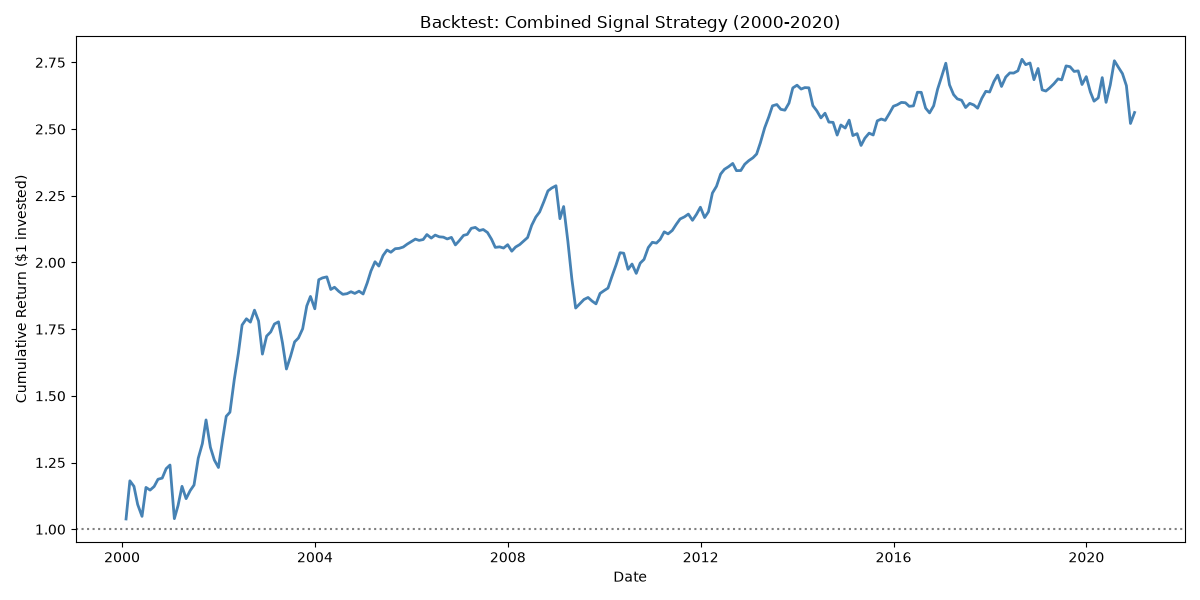
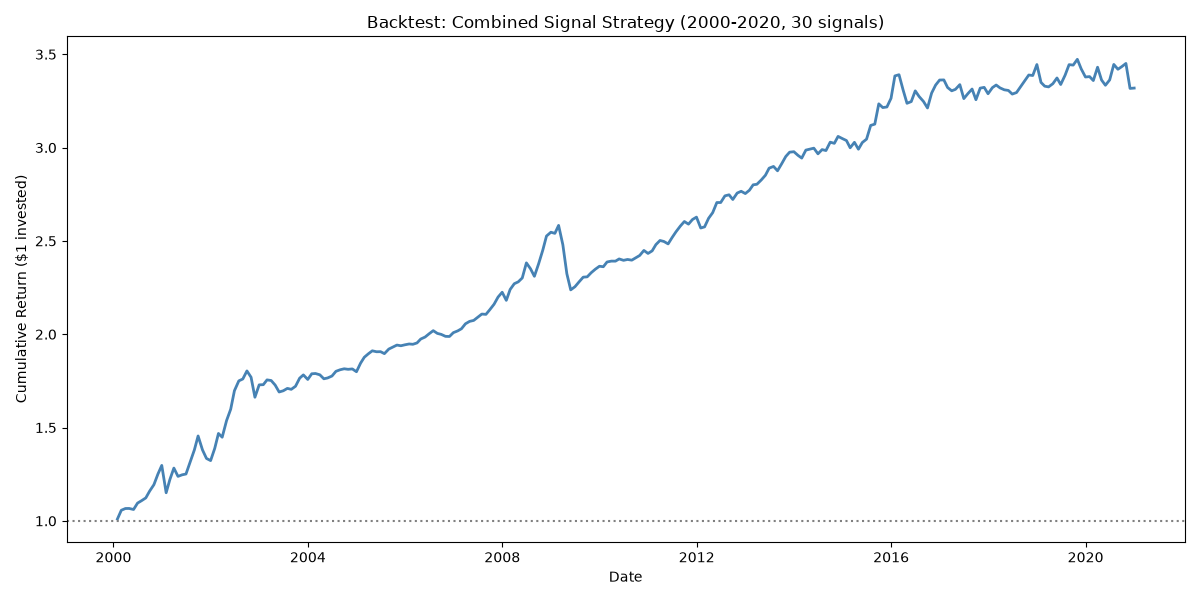
synced all 30 signals to back and alpha test

diff --git a/models/backtest.py b/models/backtest.py
@@ -7,60 +7,67 @@ import matplotlib.pyplot as plt
 
 openap = oap.OpenAP()
 
+signals = [
+    'BM', 'Mom12m', 'GP', 'AssetGrowth',
+    'TrendFactor', 'ChTax', 'EarningsStreak',
+    'MS', 'NOA', 'ResidualMomentum', 'roaq',
+    'DivSeason', 'AbnormalAccruals', 'CompositeDebtIssuance',
+    'IntMom', 'MomVol', 'OScore', 'Accruals', 'IdioVol3F',
+    'FirmAgeMom', 'dNoa', 'DelCOA', 'EntMult',
+    'ShareIss1Y', 'NetDebtFinance', 'InvGrowth',
+    'hire', 'BMdec', 'PS', 'Mom6mJunk'
+]
+
 print("Downloading portfolio returns...")
-bm = openap.dl_port('op', 'polars', ['BM'])
-mom = openap.dl_port('op', 'polars', ['Mom12m'])
-gp = openap.dl_port('op', 'polars', ['GP'])
-ag = openap.dl_port('op', 'polars', ['AssetGrowth'])
+ls_frames = []
+loaded = []
 
-# keep only the long-short portfolio (port == 'LS')
-def get_ls(df, name):
-    return (df
-        .filter(pl.col('port') == 'LS')
-        .select(['date', 'ret'])
-        .rename({'ret': name}))
+for signal in signals:
+    try:
+        port = openap.dl_port('op', 'polars', [signal])
+        ls = (port
+              .filter(pl.col('port') == 'LS')
+              .select(['date', 'ret'])
+              .rename({'ret': signal}))
+        ls_frames.append(ls)
+        loaded.append(signal)
+        print(f"  {signal}: OK")
+    except Exception as e:
+        print(f"  {signal}: skipped ({e})")
 
-bm_ls = get_ls(bm, 'BM')
-mom_ls = get_ls(mom, 'Mom12m')
-gp_ls = get_ls(gp, 'GP')
-ag_ls = get_ls(ag, 'AssetGrowth')
+print(f"\nLoaded {len(loaded)}/{len(signals)} signals")
 
-# combine all signals
-combined = bm_ls.join(mom_ls, on='date').join(gp_ls, on='date').join(ag_ls, on='date')
+combined = ls_frames[0]
+for frame in ls_frames[1:]:
+    combined = combined.join(frame, on='date', how='inner')
 
-# filter to 2000-2020
 combined = combined.filter(
     (pl.col('date') >= pl.date(2000, 1, 1)) &
     (pl.col('date') <= pl.date(2020, 12, 31))
 )
 
-# equal weight the signals into one combined strategy
 combined = combined.with_columns(
-    ((pl.col('BM') + pl.col('Mom12m') + pl.col('GP') + pl.col('AssetGrowth')) / 4).alias('combined_ret')
+    (pl.sum_horizontal([pl.col(s) for s in loaded]) / len(loaded)).alias('combined_ret')
 )
 
-# convert to pandas for math
 df = combined.to_pandas()
 df = df.sort_values('date')
 
-# cumulative returns
 df['cumulative'] = (1 + df['combined_ret'] / 100).cumprod()
 
-# stats
 total_return = df['cumulative'].iloc[-1] - 1
 avg_monthly = df['combined_ret'].mean()
 sharpe = (df['combined_ret'].mean() / df['combined_ret'].std()) * np.sqrt(12)
 
-print(f"\n=== BACKTEST RESULTS (2000-2020) ===")
+print(f"\n=== BACKTEST RESULTS (2000-2020, {len(loaded)} signals) ===")
 print(f"Total Return: {total_return:.1%}")
 print(f"Avg Monthly Return: {avg_monthly:.2f}%")
 print(f"Sharpe Ratio: {sharpe:.2f}")
 
-# plot
 plt.figure(figsize=(12, 6))
 plt.plot(df['date'], df['cumulative'], linewidth=2, color='steelblue')
 plt.axhline(y=1, color='gray', linestyle=':')
-plt.title('Backtest: Combined Signal Strategy (2000-2020)')
+plt.title(f'Backtest: Combined Signal Strategy (2000-2020, {len(loaded)} signals)')
 plt.xlabel('Date')
 plt.ylabel('Cumulative Return ($1 invested)')
 plt.tight_layout()

diff --git a/models/alpha_test.py b/models/alpha_test.py
@@ -23,23 +23,39 @@ print(f"French data loaded: {len(ff)} months")
 print("Downloading portfolio returns...")
 openap = oap.OpenAP()
 
-signals = ['BM', 'Mom12m', 'GP', 'AssetGrowth', 'TrendFactor', 
-           'ResidualMomentum', 'IntMom', 'IdioVol3F']
+signals = [
+    'BM', 'Mom12m', 'GP', 'AssetGrowth',
+    'TrendFactor', 'ChTax', 'EarningsStreak',
+    'MS', 'NOA', 'ResidualMomentum', 'roaq',
+    'DivSeason', 'AbnormalAccruals', 'CompositeDebtIssuance',
+    'IntMom', 'MomVol', 'OScore', 'Accruals', 'IdioVol3F',
+    'FirmAgeMom', 'dNoa', 'DelCOA', 'EntMult',
+    'ShareIss1Y', 'NetDebtFinance', 'InvGrowth',
+    'hire', 'BMdec', 'PS', 'Mom6mJunk'
+]
 
 dfs = []
+loaded = []
 for signal in signals:
-    port = openap.dl_port('op', 'polars', [signal])
-    port_pd = port.to_pandas()
-    ls = port_pd[port_pd['port'] == 'LS'][['date', 'ret']].copy()
-    ls['date'] = pd.to_datetime(ls['date']).dt.strftime('%Y%m').astype(int)
-    ls = ls.rename(columns={'ret': signal})
-    dfs.append(ls)
+    try:
+        port = openap.dl_port('op', 'polars', [signal])
+        port_pd = port.to_pandas()
+        ls = port_pd[port_pd['port'] == 'LS'][['date', 'ret']].copy()
+        ls['date'] = pd.to_datetime(ls['date']).dt.strftime('%Y%m').astype(int)
+        ls = ls.rename(columns={'ret': signal})
+        dfs.append(ls)
+        loaded.append(signal)
+        print(f"  {signal}: OK")
+    except Exception as e:
+        print(f"  {signal}: skipped ({e})")
+
+print(f"\nLoaded {len(loaded)}/{len(signals)} signals")
 
 combined = dfs[0]
 for df in dfs[1:]:
     combined = combined.merge(df, on='date', how='inner')
 
-combined['strategy_ret'] = combined[signals].mean(axis=1)
+combined['strategy_ret'] = combined[loaded].mean(axis=1)
 
 # merge with Ken French data
 merged = combined.merge(ff[['date', 'Mkt_RF', 'RF']], on='date')
@@ -50,13 +66,13 @@ merged = merged[(merged['date'] >= 200001) & (merged['date'] <= 202012)]
 # compute excess return = strategy return - risk free rate
 merged['excess_ret'] = merged['strategy_ret'] - merged['RF']
 
-print(f"\nRunning CAPM regression on {len(merged)} months...")
+print(f"\nRunning CAPM regression on {len(merged)} months ({len(loaded)} signals)...")
 
 # CAPM regression: excess_ret = alpha + beta * Mkt_RF + error
 X = sm.add_constant(merged['Mkt_RF'])
 y = merged['excess_ret']
 
-model = sm.OLS(y, X).fit()
+model = sm.OLS(y, X).fit(cov_type='HAC', cov_kwds={'maxlags': 6})
 print(model.summary())
 
 alpha = model.params['const']